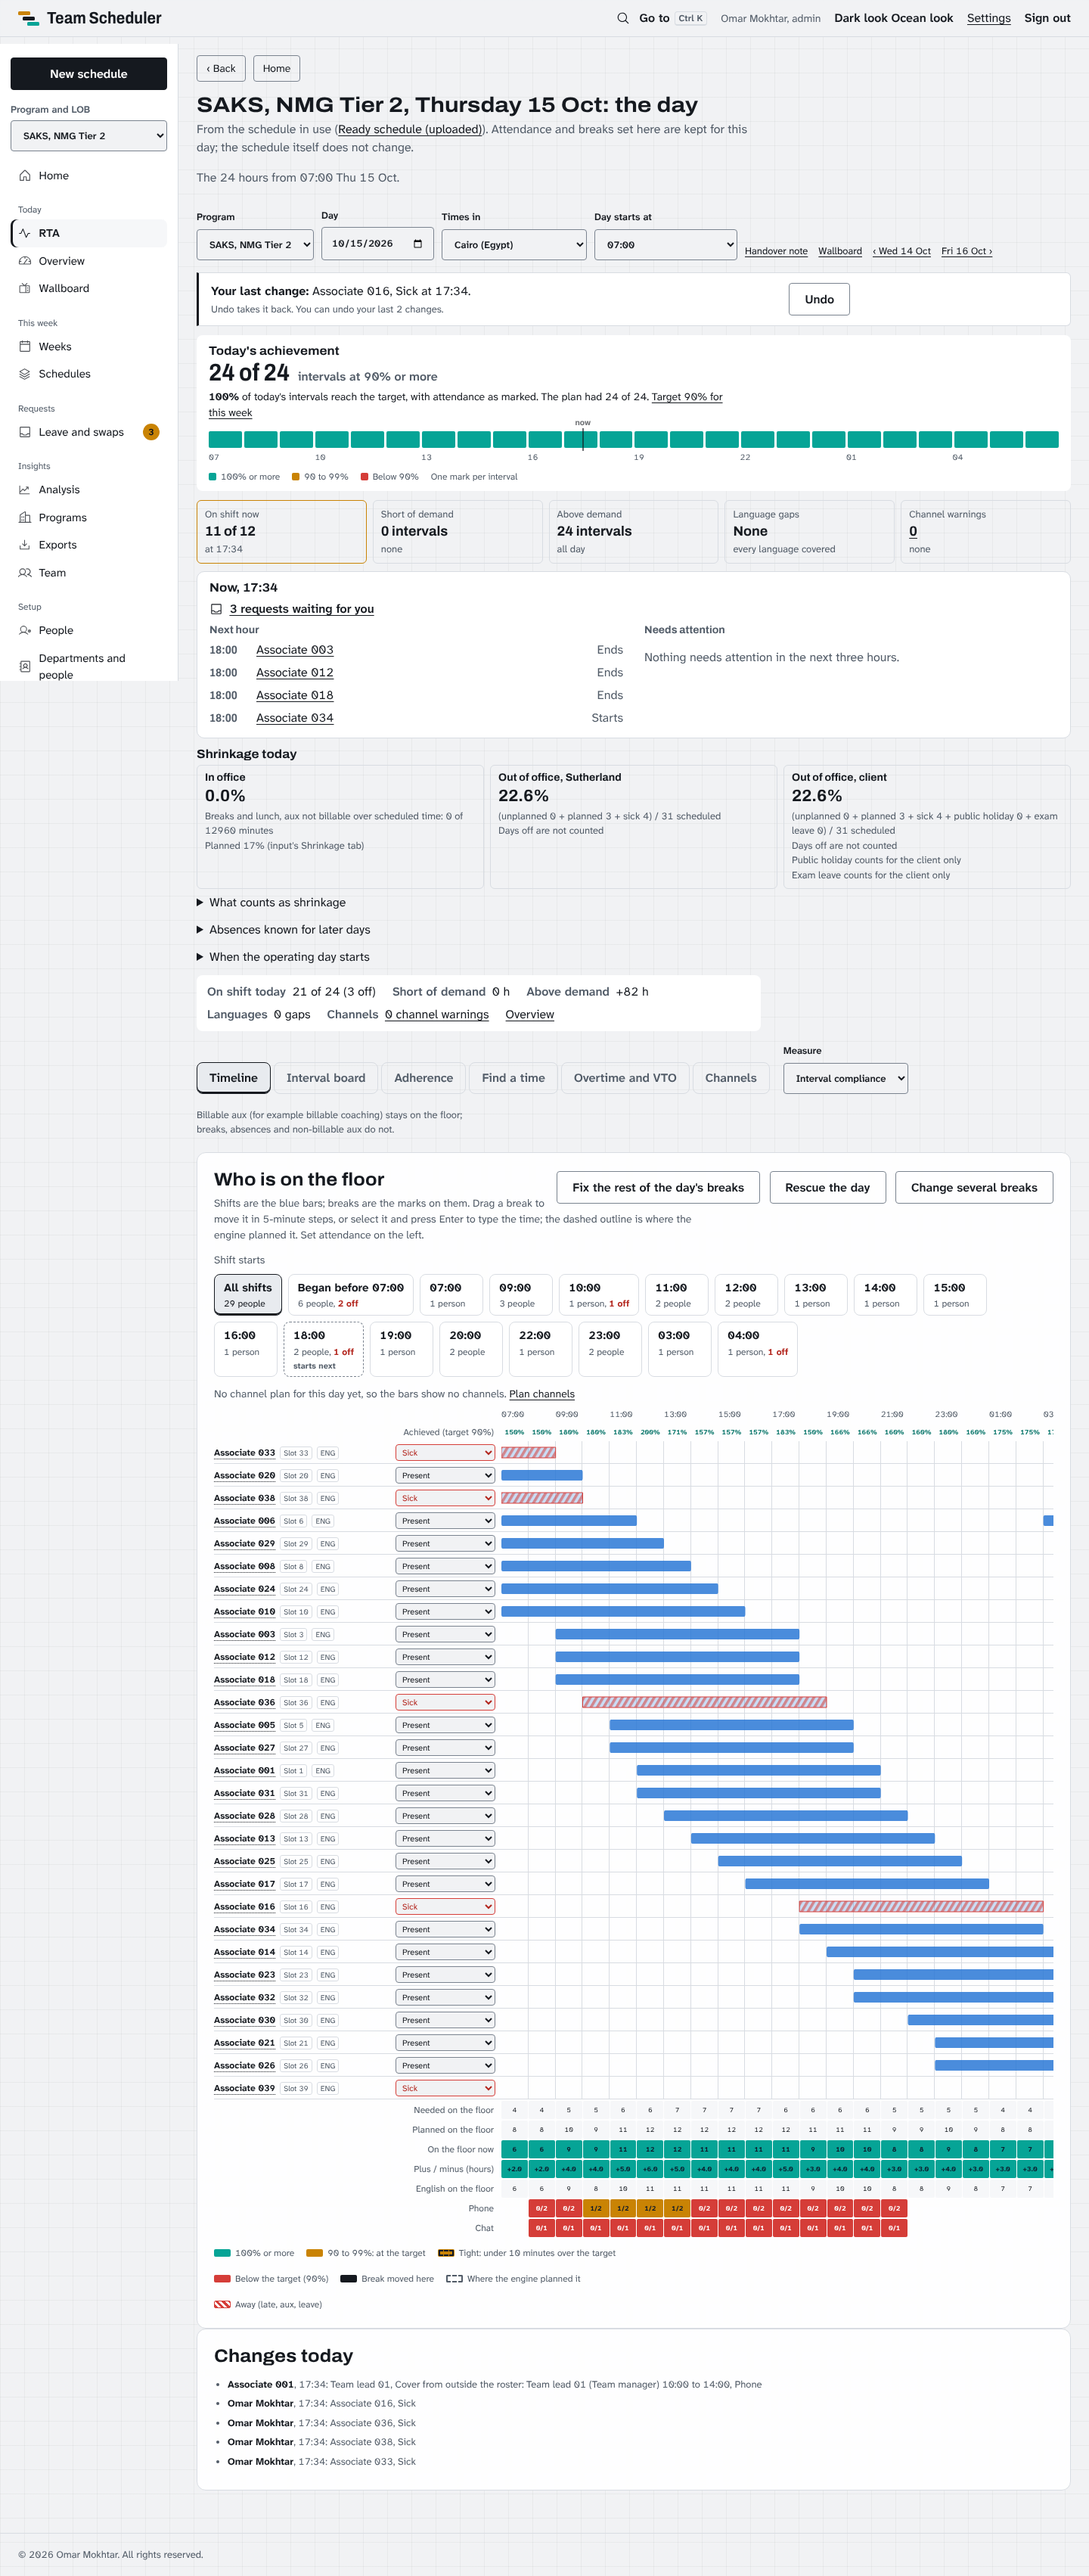
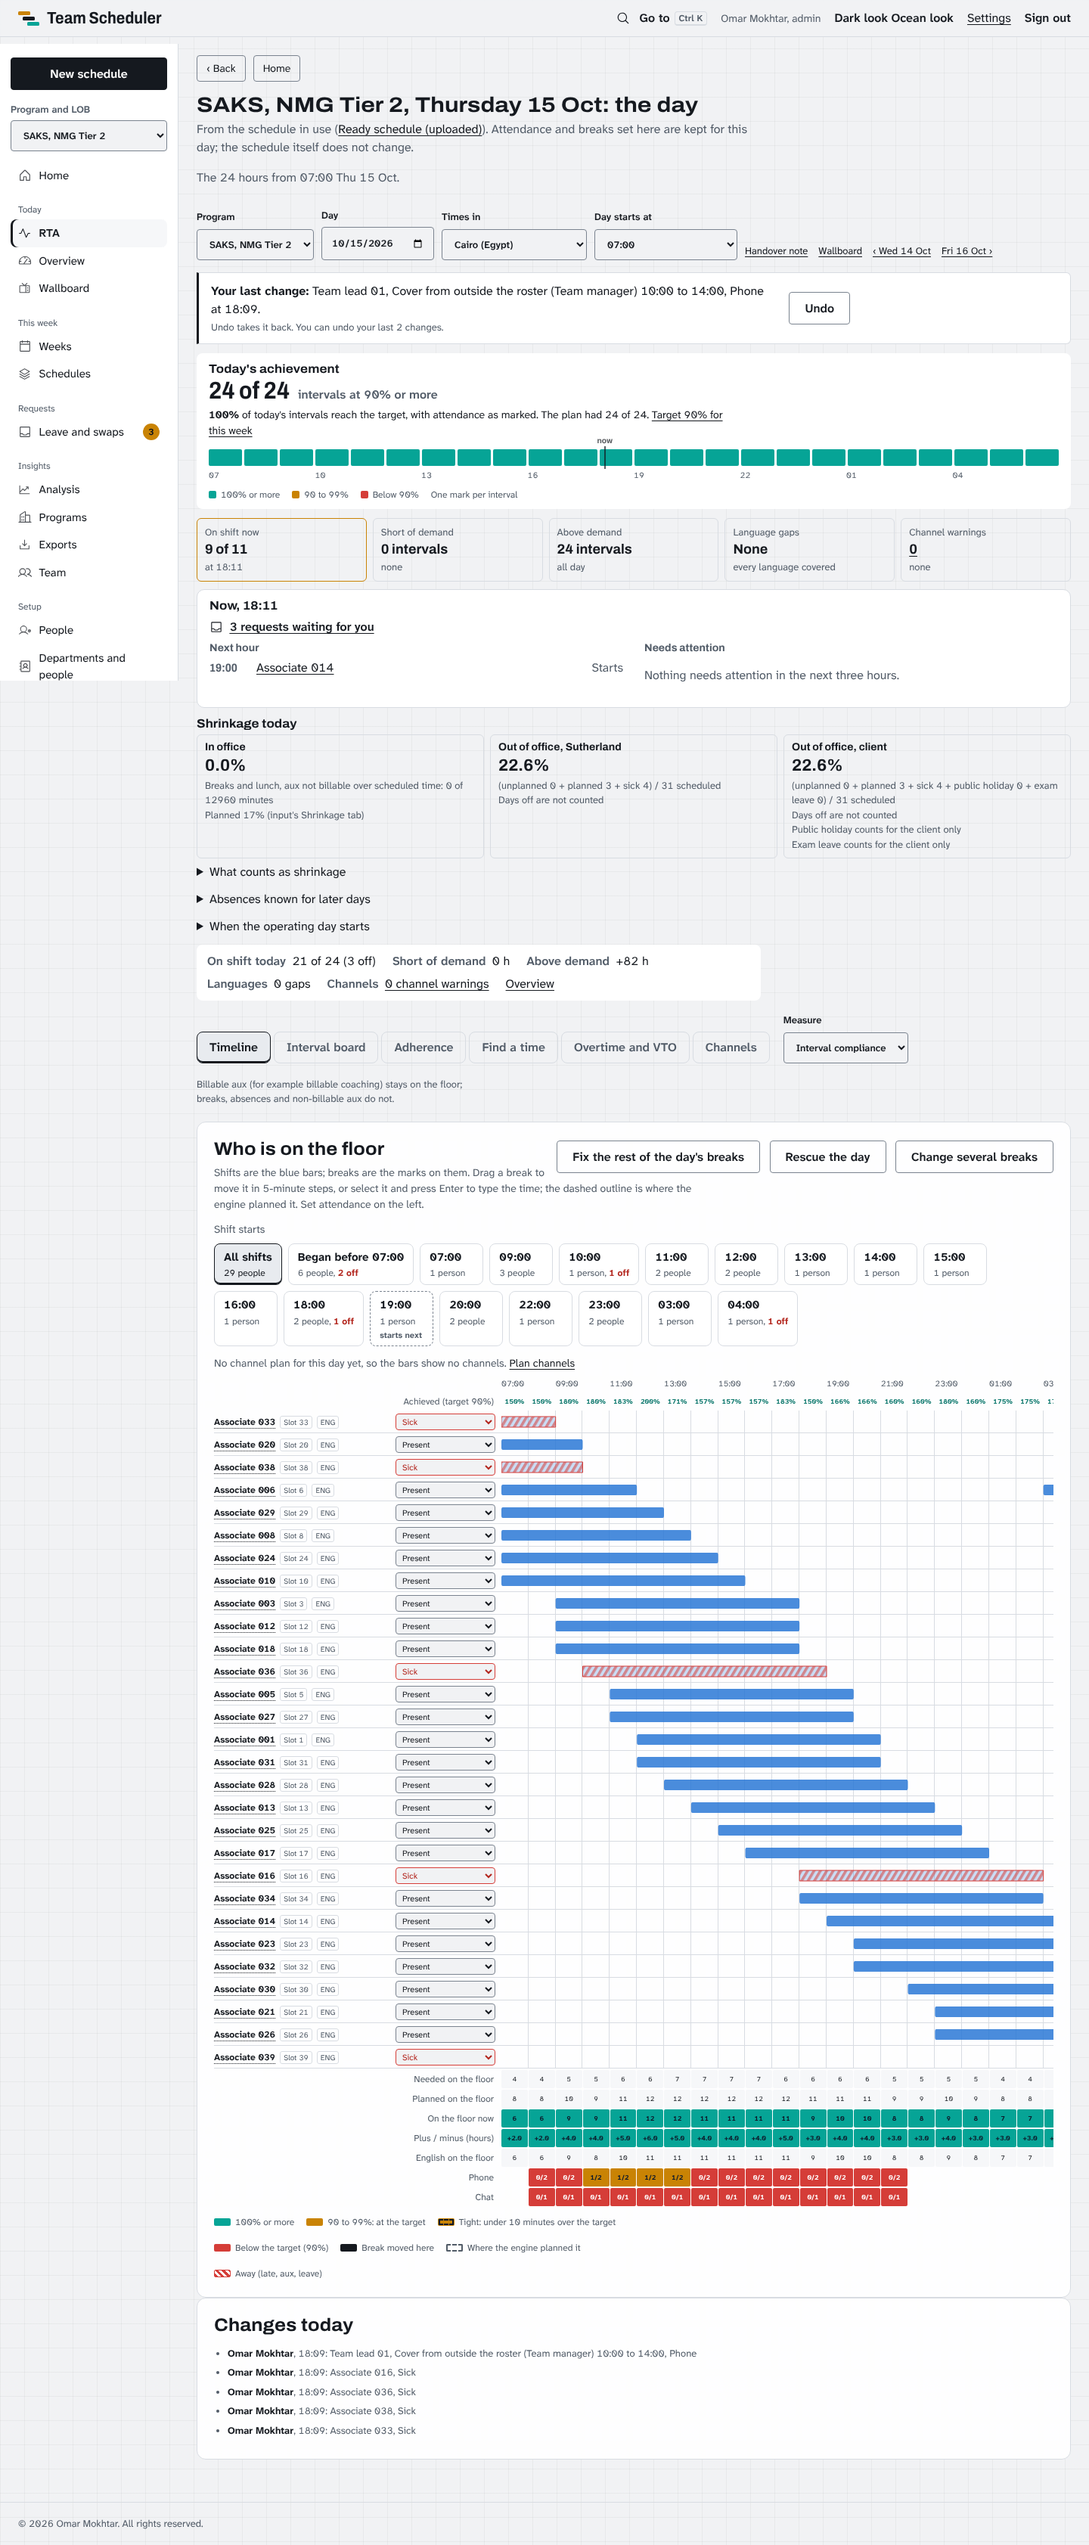
Phase AJ: checks, package and handoff recorded
Claude-Session: https://claude.ai/code/session_012jkpuBfug5TnsMSqQWAuNe

diff --git a/docs/HANDOFF.md b/docs/HANDOFF.md
@@ -2,7 +2,7 @@
 
 © 2026 Omar Mokhtar. All rights reserved.
 
-Written Thu 15 Oct 2026, 13:11 Egypt time, at the end of Phase AI. A new chat reads `CLAUDE.md` (it loads by itself)
+Written Thu 15 Oct 2026, 13:11 Egypt time, at the end of Phase AI; brought up to date at 18:30, end of Phase AJ. A new chat reads `CLAUDE.md` (it loads by itself)
 and then this file. Together they hold the rules, the owner's ways of working, where the work stands and how to
 check it. What they cannot hold is the chat itself: when something here is not enough, the record is in git
 (`git log`), the plans (`docs/superpowers/plans/`) and each phase's evidence (`evidence/phase_*/`).
@@ -41,7 +41,7 @@ check it. What they cannot hold is the chat itself: when something here is not e
 - Pages: Home, RTA (`/day`: Timeline, Interval board, Adherence, Find a time, Overtime and VTO, Channels, Rescue the
   day, Fix breaks, Change several breaks), Overview, Wallboard, Handover, Weeks, Schedules, Runs, Leave and swaps,
   Analysis, Programs, Exports, Team, People, Departments and people, Notifications, Coaching, My week (associates).
-- Branch: `claude/handoff-document-m6egz2` (commit and push only there; no pull request unless asked).
+- Branch: the session's designated branch (Phase AJ: `ccr-90ec94cc-a37tqk`, started from `claude/handoff-document-m6egz2`); no pull request unless asked.
 
 ## How a phase runs
 
@@ -56,7 +56,31 @@ check it. What they cannot hold is the chat itself: when something here is not e
 6. Package, split into parts, send them, and report in caveman style: what changed, rulings with their cost, what
    is known and left, Egypt times, screens.
 
-## Where things stand (end of Phase AI)
+## Where things stand (end of Phase AJ)
+
+- Phase AI is installed on the server (owner, 2026-10-15).
+- Phase AJ is complete and pushed (branch `ccr-90ec94cc-a37tqk`, from the handoff branch): overtime up to 4 hours,
+  cover from outside the roster (a TM or support member counted in the intervals), channel colours after midnight.
+  Requests, root causes and answers: `evidence/phase_aj/REQUESTS.md`; checks: `evidence/phase_aj/CHECKS.md`; rulings
+  at the end of `docs/superpowers/plans/2026-10-15-phase-aj-build.md`.
+- Package: `RC9_2_2_PRODUCTION_PACKAGE.zip`, 2602 files, 79.63 MB, sha256
[1 lines of base64/hex data omitted]
+  the owner's step, the same way as before (four parts now: `cat AJ_part_0 AJ_part_1 AJ_part_2 AJ_part_3 > ...`).
+- Check tools for a fresh container: `evidence/phase_aj/tools/` (replace phase_ai with phase_aj in the commands
+  below). Expected on Phase AJ: 502 and 581 tests OK (1 skipped), 77 browser tests OK, GATE PASS with 1537 tests
+  (2 skipped), page review 0 problems, sweep 0 exceptions and 0 server errors.
+
+### Phase AJ decisions to remember
+
+- `OVERTIME_MAX` is 240 minutes, the longest "+ Add" length (owner, 2026-10-15).
+- Cover from outside the roster: table `outside_cover`, `DayBook.add_cover` / `cancel_cover` / `covers`,
+  `day_view(cover=...)` adds them to every 5 minutes (cell key `outside`), `page(cover=False)` leaves them out (the
+  export's tick). Group posts go under the "overtime" kind.
+- `channel_day._timelines` keeps last night's stretches after midnight in `runs` (the words in `timelines` stay with
+  the day the shift starts).
+
+## Earlier: end of Phase AI
+
 
 - Phase AI is complete and pushed (last code commit 1a8e849, results 71e9b5c). The owner's 12 items are in
   `evidence/phase_ai/REQUESTS.md`; what was built, the checks and the rulings are in `evidence/phase_ai/CHECKS.md`
@@ -147,3 +171,4 @@ read the real clock break when their date passes, so stop the clock with `mock.p
 - AG: v4 redesign, associates' accounts, leave requests and approval, shift swaps, My week.
 - AH: one rule for an interval's standing by the week's target, hours needed table, 10-minute cushion.
 - AI: the 12 items above.
+- AJ: overtime up to 4 hours, cover from outside the roster, channel colours after midnight.

diff --git a/evidence/phase_aj/CHECKS.md b/evidence/phase_aj/CHECKS.md
@@ -1,0 +1,36 @@
+# Phase AJ: what was built and the checks
+
+© 2026 Omar Mokhtar. All rights reserved.
+
+Checks run on code commit c9c0d29 (Thu 15 Oct 2026, finished about 18:20 Egypt time). Tools: `evidence/phase_aj/tools/`
+(Phase AI's, with the review server setting the upload with channel needs in use and adding one cover, plus
+`aj_screens.py`).
+
+## What was built
+
+| # | Owner's item | What changed | Tests |
+| --- | --- | --- | --- |
+| 1 | Overtime 4 h before a 20:00 to 05:00 shift refused with the wrong reason | Cap raised to 4 h (owner's answer: "raise it to the options we do have"). Root cause: + Add offered 4 h, the server capped at 2 h and read a start more than 2 h before the shift as the next day | test_aj_overtime (6); re-pinned with the reason: test_attendance, test_day (2), test_add_overtime_default, test_runs (cover panel lengths) |
+| 2 | Cover from outside the roster (TM or support) counted in the intervals | Overtime and VTO tab: name (typed), role, from, to, channel when the program has channels, post tick. One more person on the floor for those minutes (past midnight too), on their channel; not in the plan, lanes, languages, adherence or shrinkage. Journal and Undo, day log, group posts (under "Overtime, VTO and cover from outside the roster"), the board names them, program rename and the 13-month clean-up include them. Exports: a tick; ticked, their own sheet and "Cover min" in the Daily summary with them counted; unticked, the roster alone | test_aj_cover (20); re-pinned with the reason: test_exports_speed (page's new tick), test_run_admin (rename counts a "cover" entry) |
+| 3 | No channel colour on the Timeline after 00:00 | Root cause: a day's channel stretches were made only for shifts starting that day and only up to midnight. The next day's view now carries last night's stretches; the 24 hours from a start join them. The channel change list still names only the day's own shifts | test_aj_midnight (3) |
+
+## Checks
+
+- Website suite in two halves: 502 tests OK (1 skipped) and 581 tests OK.
+- Browser tests: 77 OK (the older phases' screenshots they rewrite were put back).
+- Release gate (`run_tests.sh`): GATE PASS, 77 suites, 1537 tests (2 skipped), engine untouched.
+- Page review, every page at 360 and 1440 px in the dark and light looks: 0 problems (status, console errors,
+  sideways scroll on a phone).
+- Route sweep: 872 requests, 0 exceptions, 0 server errors, 0 slow; the same 2 "leaks" by design and the same 222
+  "None" words written on purpose as Phase AI (`evidence/phase_ai/CHECKS.md`).
+- pyflakes on the changed files: only the old unused `DAYS` import in exports.py (known, left as it was).
+- Screens: `evidence/phase_aj/screens` (the cover panel at 1440 and 360 px in both looks; the Timeline from 07:00).
+
+## Known and left
+
+- The review data has channel needs but no channel plan, so the Timeline screen cannot show item 3's colours; the
+  fix is proved by test_aj_midnight on the channel fixture (Associate 016, 17:00 to 02:00, on Email after midnight).
+- A person covering from outside the roster has no bar on the Timeline (they are not on the roster); the board and
+  the tab's list name them.
+- From Phase AI, unchanged: one attendance box for a row holding two shifts in the RTA's 24 hours; three old
+  unused imports.

diff --git a/docs/superpowers/plans/2026-10-15-phase-aj-build.md b/docs/superpowers/plans/2026-10-15-phase-aj-build.md
@@ -40,3 +40,12 @@ session's branch only.
   in the plan, adherence, worked hours or shrinkage (they are not on the roster). Cost: a language field.
 - T6: the owner's "check box to include them or not" is read as the export's tick; the RTA always counts them (answer
   b). Cost: a tick on the RTA too if the owner meant the live page.
+- T6: "Changes recorded" in the Daily summary counts every change made on the RTA that day, a cover included, ticked
+  or not (it is the day's audit count, not a staffing figure). Cost: one filter on the day log.
+- T4: the board names a cover in the interval it starts ("support from outside the roster, covering 10:00 to 12:00");
+  the Timeline has no bar for them (they are not on the roster). Cost: a lane of their own if the owner wants one.
+- Item 3 (added by the owner while building): the next day's view carries last night's channel stretches after
+  midnight; the Channels tab's "Who" list for a channel change still names only that day's own shifts, so a change
+  is never offered for someone whose shift belongs to the day before. Cost: one list.
+- Samples: none were made first. The cover panel uses the existing form styles of the RTA (the Find a time form), so
+  nothing new was designed; screens are in `evidence/phase_aj/screens`. Cost: a restyle if the owner wants it otherwise.
